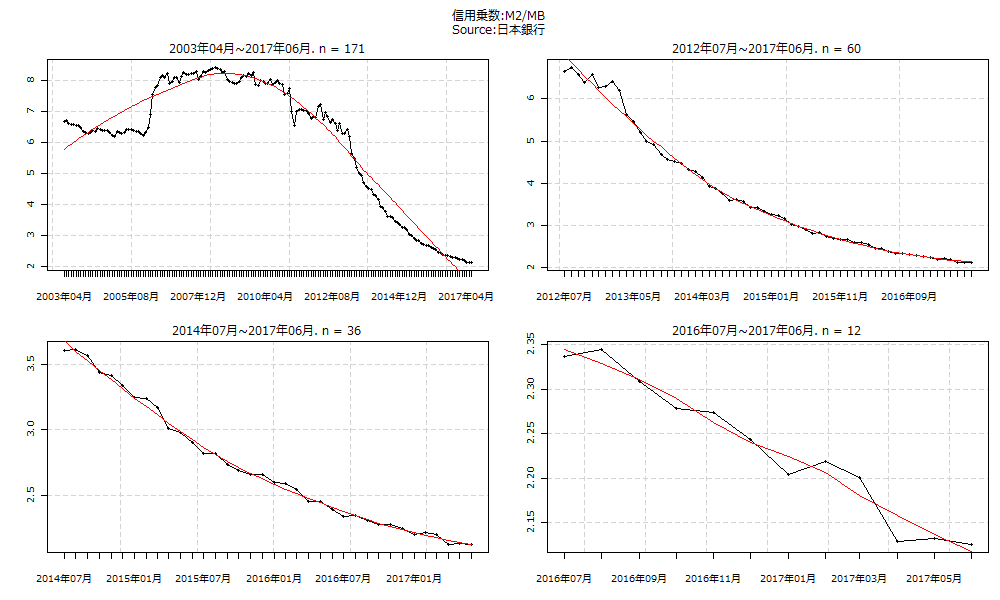
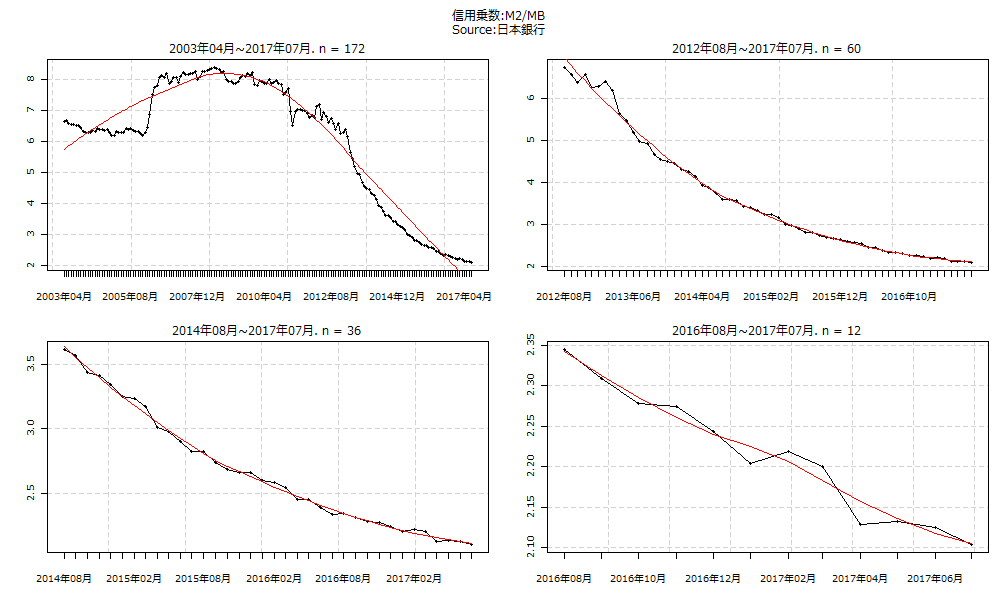
insertheader,selfcontained追記
insertheader,selfcontained追記

diff --git a/md/20170809-olive.md b/md/20170809-olive.md
@@ -1,68 +1,109 @@
 
 ---
-tags : [中小企業庁,倒産]
-title : 倒産の状況:2017年06月:倒産の状況(倒産件数、負債金額(単位:億円)):件数:前年同期(月)比:-7.5 , 倒産の状況(倒産件数、負債金額(単位:億円)):負債金額:前年同期(月)比:1,367.7
+tags : [マネーストック, 日本銀行, 広義流動性, M2, M3, 信用乗数]
+title : 日本のマネーストックと信用乗数:2017年07月:マネーストック(月次):M2/平残前年比/マネーストック(2004年3月以前はマネーサプライ)(%):4
 published : true
 ---
 
 
-<a href="http://knowledgevault.saecanet.com/charts/chartImages/SituationInBankruptcy1.png"><img border="0" src="http://knowledgevault.saecanet.com/charts/chartImages/SituationInBankruptcy1.png" width="100%" /></a>
+<a href="http://knowledgevault.saecanet.com/charts/chartImages/moneyStockInJapan1.png"><img border="0" src="http://knowledgevault.saecanet.com/charts/chartImages/moneyStockInJapan1.png" width="100%" /></a>
+
+
+<a href="http://knowledgevault.saecanet.com/charts/chartImages/moneyStockInJapan2.png"><img border="0" src="http://knowledgevault.saecanet.com/charts/chartImages/moneyStockInJapan2.png" width="100%" /></a>
 
 
 ***
 
 
-#### 倒産の状況
+#### 内閣総理大臣毎の基本統計量
 
 
-- 直近3ヶ月分
+- 信用乗数:マネーストック(月次):M2/平/マネーストック(兆円)
 
 
 <table id = 'amcc' width = '100%'>
  <thead>
   <tr>
-   <th style="text-align:left;"> Item </th>
-   <th style="text-align:right;"> 2017年04月 </th>
-   <th style="text-align:right;"> 2017年05月 </th>
-   <th style="text-align:right;"> 2017年06月 </th>
+   <th style="text-align:left;"> Name </th>
+   <th style="text-align:right;"> Min. </th>
+   <th style="text-align:right;"> 1st Qu. </th>
+   <th style="text-align:right;"> Median </th>
+   <th style="text-align:right;"> Mean </th>
+   <th style="text-align:right;"> 3rd Qu. </th>
+   <th style="text-align:right;"> Max. </th>
+   <th style="text-align:left;"> Period </th>
   </tr>
  </thead>
 <tbody>
   <tr>
-   <td style="text-align:left;"> 倒産の状況(倒産件数、負債金額(単位:億円)):件数:実数 </td>
-   <td style="text-align:right;"> 680 </td>
-   <td style="text-align:right;"> 802 </td>
-   <td style="text-align:right;"> 706 </td>
+   <td style="text-align:left;"> 安倍晋三(1) </td>
+   <td style="text-align:right;"> 7.89 </td>
+   <td style="text-align:right;"> 8.04 </td>
+   <td style="text-align:right;"> 8.1 </td>
+   <td style="text-align:right;"> 8.09 </td>
+   <td style="text-align:right;"> 8.18 </td>
+   <td style="text-align:right;"> 8.23 </td>
+   <td style="text-align:left;"> 2006年10月~2007年09月 </td>
   </tr>
   <tr>
-   <td style="text-align:left;"> 倒産の状況(倒産件数、負債金額(単位:億円)):件数:前年同期(月)比 </td>
-   <td style="text-align:right;"> -2.2 </td>
-   <td style="text-align:right;"> 19.5 </td>
-   <td style="text-align:right;"> -7.5 </td>
+   <td style="text-align:left;"> 福田康夫 </td>
+   <td style="text-align:right;"> 8.03 </td>
+   <td style="text-align:right;"> 8.24 </td>
+   <td style="text-align:right;"> 8.3 </td>
+   <td style="text-align:right;"> 8.28 </td>
+   <td style="text-align:right;"> 8.36 </td>
+   <td style="text-align:right;"> 8.4 </td>
+   <td style="text-align:left;"> 2007年10月~2008年09月 </td>
   </tr>
   <tr>
-   <td style="text-align:left;"> 倒産の状況(倒産件数、負債金額(単位:億円)):件数:中小企業:実数 </td>
-   <td style="text-align:right;"> 679 </td>
-   <td style="text-align:right;"> 802 </td>
-   <td style="text-align:right;"> 705 </td>
+   <td style="text-align:left;"> 麻生太郎 </td>
+   <td style="text-align:right;"> 7.89 </td>
+   <td style="text-align:right;"> 7.94 </td>
+   <td style="text-align:right;"> 8.05 </td>
+   <td style="text-align:right;"> 8.06 </td>
+   <td style="text-align:right;"> 8.15 </td>
+   <td style="text-align:right;"> 8.27 </td>
+   <td style="text-align:left;"> 2008年10月~2009年09月 </td>
   </tr>
   <tr>
-   <td style="text-align:left;"> 倒産の状況(倒産件数、負債金額(単位:億円)):負債金額:実数 </td>
-   <td style="text-align:right;"> 1,041 </td>
-   <td style="text-align:right;"> 1,069 </td>
-   <td style="text-align:right;"> 15,883 </td>
+   <td style="text-align:left;"> 鳩山由紀夫 </td>
+   <td style="text-align:right;"> 7.82 </td>
+   <td style="text-align:right;"> 7.89 </td>
+   <td style="text-align:right;"> 7.94 </td>
+   <td style="text-align:right;"> 7.98 </td>
+   <td style="text-align:right;"> 8.02 </td>
+   <td style="text-align:right;"> 8.23 </td>
+   <td style="text-align:left;"> 2009年10月~2010年06月 </td>
   </tr>
   <tr>
-   <td style="text-align:left;"> 倒産の状況(倒産件数、負債金額(単位:億円)):負債金額:前年同期(月)比 </td>
-   <td style="text-align:right;"> 0.7 </td>
-   <td style="text-align:right;"> -7.7 </td>
-   <td style="text-align:right;"> 1,367.7 </td>
+   <td style="text-align:left;"> 菅直人 </td>
+   <td style="text-align:right;"> 6.54 </td>
+   <td style="text-align:right;"> 7.01 </td>
+   <td style="text-align:right;"> 7.52 </td>
+   <td style="text-align:right;"> 7.4 </td>
+   <td style="text-align:right;"> 7.86 </td>
+   <td style="text-align:right;"> 7.97 </td>
+   <td style="text-align:left;"> 2010年07月~2011年09月 </td>
   </tr>
   <tr>
-   <td style="text-align:left;"> 倒産の状況(倒産件数、負債金額(単位:億円)):負債金額:中小企業:実数 </td>
-   <td style="text-align:right;"> 1,028 </td>
-   <td style="text-align:right;"> 1,069 </td>
-   <td style="text-align:right;"> 859 </td>
+   <td style="text-align:left;"> 野田佳彦 </td>
+   <td style="text-align:right;"> 6.27 </td>
+   <td style="text-align:right;"> 6.61 </td>
+   <td style="text-align:right;"> 6.77 </td>
+   <td style="text-align:right;"> 6.76 </td>
+   <td style="text-align:right;"> 6.88 </td>
+   <td style="text-align:right;"> 7.2 </td>
+   <td style="text-align:left;"> 2011年10月~2012年12月 </td>
+  </tr>
+  <tr>
+   <td style="text-align:left;"> 安倍晋三(2,3) </td>
+   <td style="text-align:right;"> 2.1 </td>
+   <td style="text-align:right;"> 2.42 </td>
+   <td style="text-align:right;"> 3.01 </td>
+   <td style="text-align:right;"> 3.41 </td>
+   <td style="text-align:right;"> 4.21 </td>
+   <td style="text-align:right;"> 6.41 </td>
+   <td style="text-align:left;"> 2013年01月~2017年07月 </td>
   </tr>
 </tbody>
 </table>
@@ -70,7 +111,7 @@ published : true
 ## データテーブル･チャート
 
 
-Link : [データテーブル･チャート](http://knowledgevault.saecanet.com/charts/am-consulting.co.jp-SituationInBankruptcy.html)
+Link : [データテーブル･チャート](http://knowledgevault.saecanet.com/charts/am-consulting.co.jp-moneyStockInJapan.html)
 
 
-<iframe src="http://knowledgevault.saecanet.com/charts/am-consulting.co.jp-SituationInBankruptcy.html" width="100%" height="1200px"></iframe>
+<iframe src="http://knowledgevault.saecanet.com/charts/am-consulting.co.jp-moneyStockInJapan.html" width="100%" height="1200px"></iframe>
